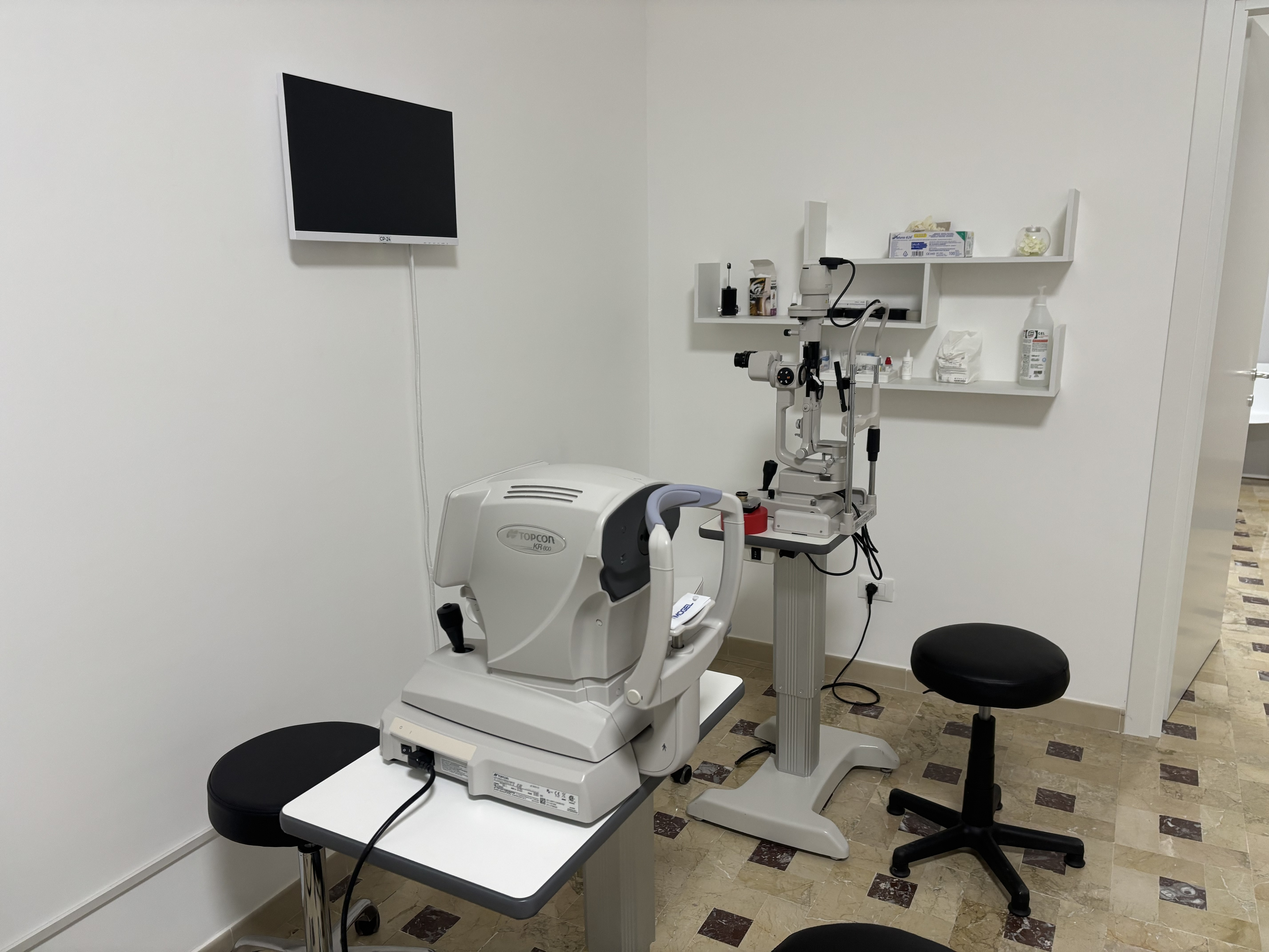
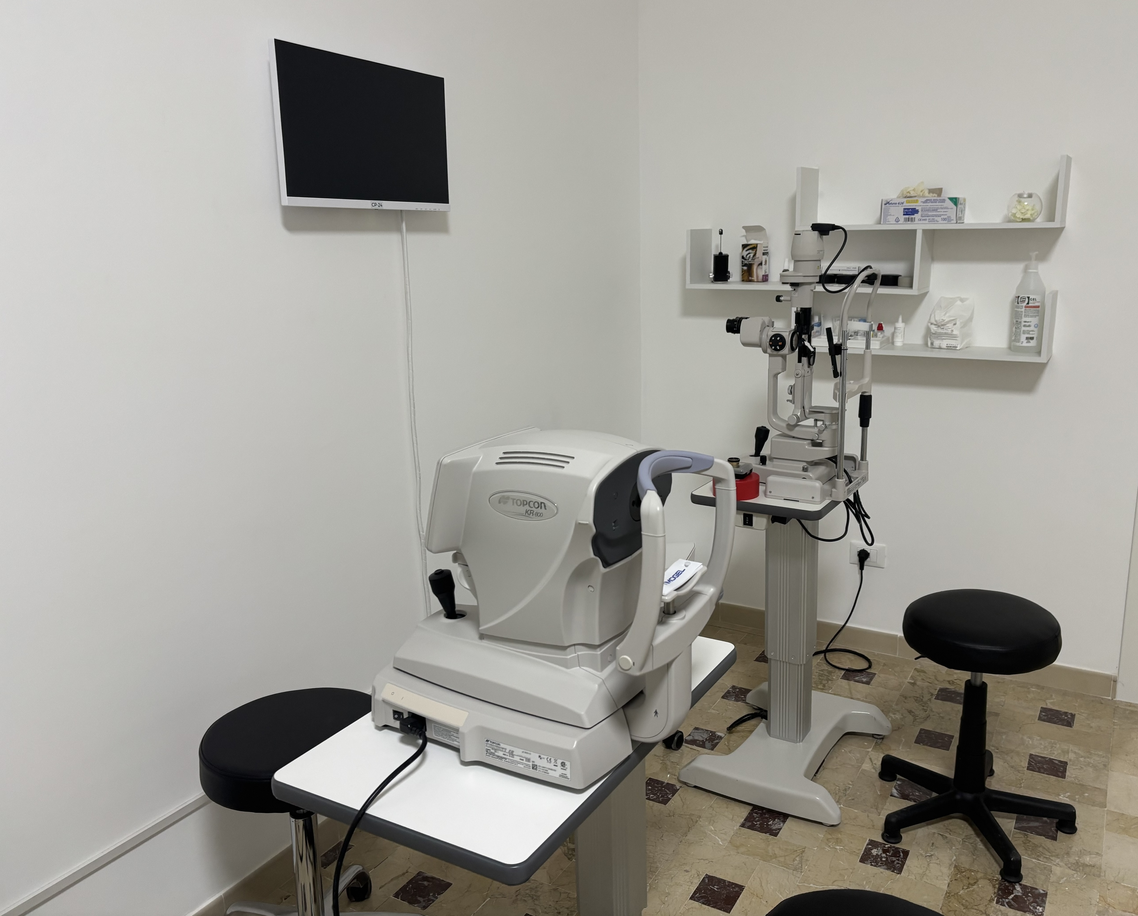
who i am + fixing photos

diff --git a/templates/studio.html b/templates/studio.html
@@ -172,7 +172,7 @@
     </header>
 
     <!-- Hero Section -->
-    <section class="hero" style="background-image: linear-gradient(rgba(0,0,0,0.5), rgba(0,0,0,0.5)), url('{{ url_for('static', filename="images/hero-studio.jpeg") }}');">
+    <section class="hero" style="background-image: linear-gradient(rgba(0,0,0,0), rgba(0,0,0,0.7)), url('{{ url_for('static', filename="images/hero-studio.jpeg") }}');">
         <div class="hero-content">
             <h1>Il Nostro Centro</h1>
             <p>Ambiente accogliente e tecnologie all'avanguardia</p>
@@ -210,12 +210,18 @@
     <section class="about">
         <div class="container">
             <div class="about-content">
-                <h2>Il nostro ambiente</h2>
-                <p>Lo studio oculistico Rubino è stato progettato per offrire il massimo comfort ai pazienti, con ambienti luminosi e accoglienti. Tutti gli spazi sono organizzati per garantire visite accurate in un'atmosfera rilassante.</p>
-                <p>La nostra strumentazione viene costantemente aggiornata per garantire diagnosi precise e trattamenti all'avanguardia.</p>
+                <h2>Chi sono</h2>
+                <p>
+                    Sono la Dott.ssa Marisa Rubino, laureata in Medicina e Chirurgia presso l’Università degli Studi di Ferrara. Ho conseguito il diploma di specializzazione in Oftalmologia, con Lode, presso l’Università degli Studi di Pisa.<br>
+                    Attualmente ricopro il ruolo di Dirigente Medico presso l’Ospedale Umberto I di Siracusa.<br>
+                    In passato ho prestato servizio presso l’ASST Settelaghi - Ospedale di Circolo e Fondazione Macchi, Università dell’Insubria di Varese, e presso l’ASST Fatebenefratelli Sacco di Milano.<br>
+                    Ho partecipato alla stesura di articoli scientifici pubblicati su riviste specialistiche nazionali e internazionali. Sono membro di diverse società scientifiche oftalmologiche e ho preso parte a numerosi congressi di Oftalmologia, sia a livello nazionale che internazionale.<br>
+                    Ho, inoltre, conseguito il Diploma di Superior Specialist in Ophthalmology presso l’European School for Advanced Studies in Ophthalmology di Lugano.<br>
+                    Mi occupo principalmente di chirurgia della cataratta e di chirurgia laser refrattiva, oltre che della diagnosi e del trattamento del glaucoma e delle patologie retiniche e maculari.
+                    </p>
             </div>
             <div class="about-image">
-                <img src="{{ url_for('static', filename='studio-ambiente.jpg') }}" alt="Ambiente dello studio">
+                <img src="{{ url_for('static', filename='images/imgwho-bw.jpeg') }}" alt="Chi sono">
             </div>
         </div>
     </section>

diff --git a/templates/contacts.html b/templates/contacts.html
@@ -58,7 +58,7 @@
     </header>
 
     <!-- Hero Section -->
-    <section class="hero" style="background-image: linear-gradient(rgba(0,0,0,0.5), rgba(0,0,0,0.5)), url('{{ url_for('static', filename="images/hero-contact.jpeg") }}');">
+    <section class="hero" style="background-image: linear-gradient(rgba(0,0,0,0), rgba(0,0,0,0.6)), url('{{ url_for('static', filename="images/hero-contact.jpeg") }}');">
         <div class="hero-content">
             <h1>Contatti</h1>
             <p>Come raggiungerci e come prenotare una visita</p>

diff --git a/static/styles.css b/static/styles.css
@@ -168,7 +168,7 @@ h4 {
 
 /* Hero Section */
 .hero {
-    background: linear-gradient(rgba(0,0,0,0.5), rgba(0,0,0,0.5)), url('/static/images/hero-image.jpeg');
+    background: linear-gradient(rgba(0,0,0,0.3), rgba(0,0,0,0.3)), url('/static/images/hero-image.jpeg');
     background-size: cover;
     background-position: center;
     height: 500px;
